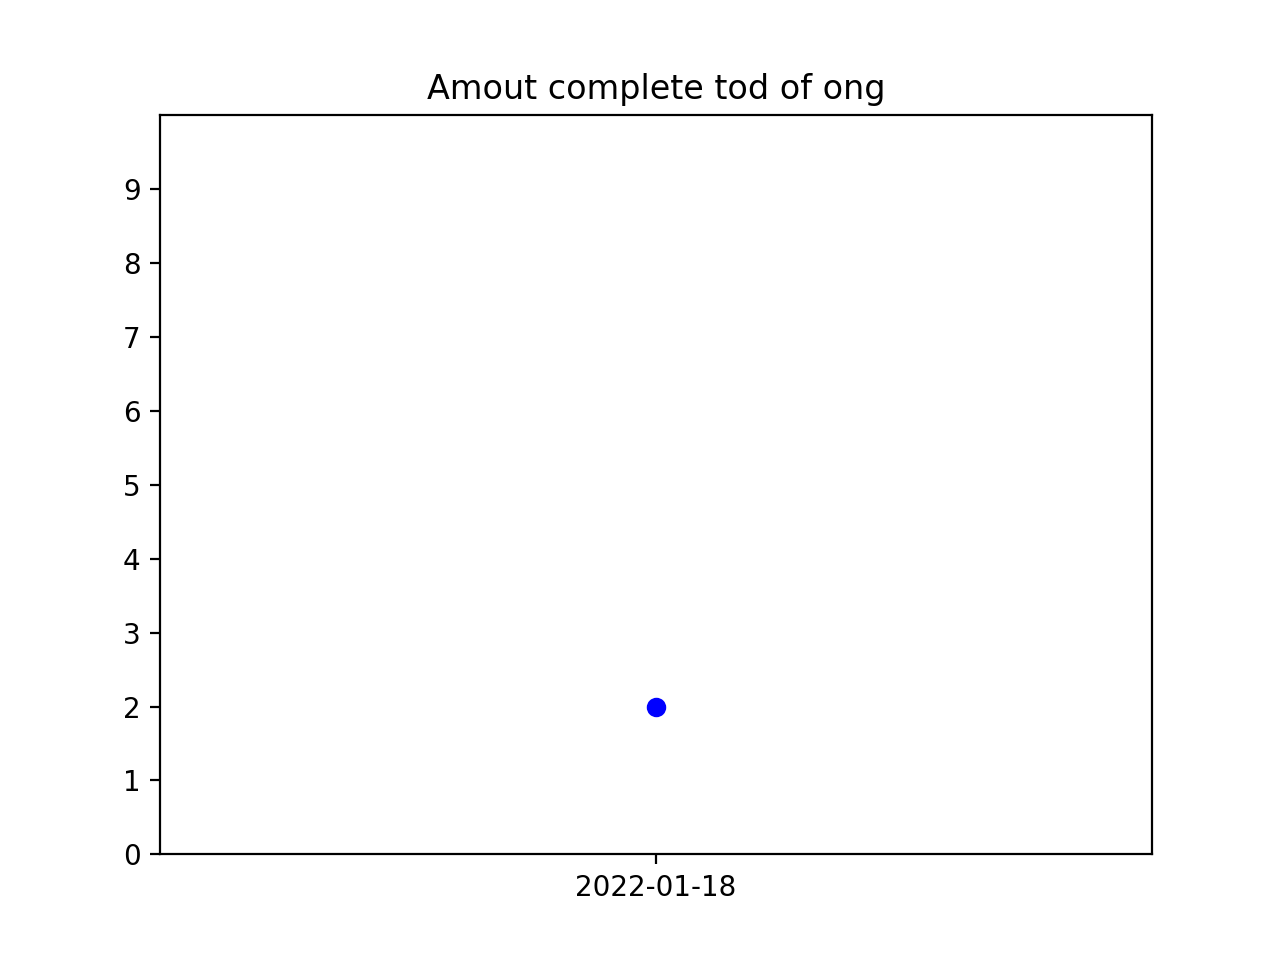
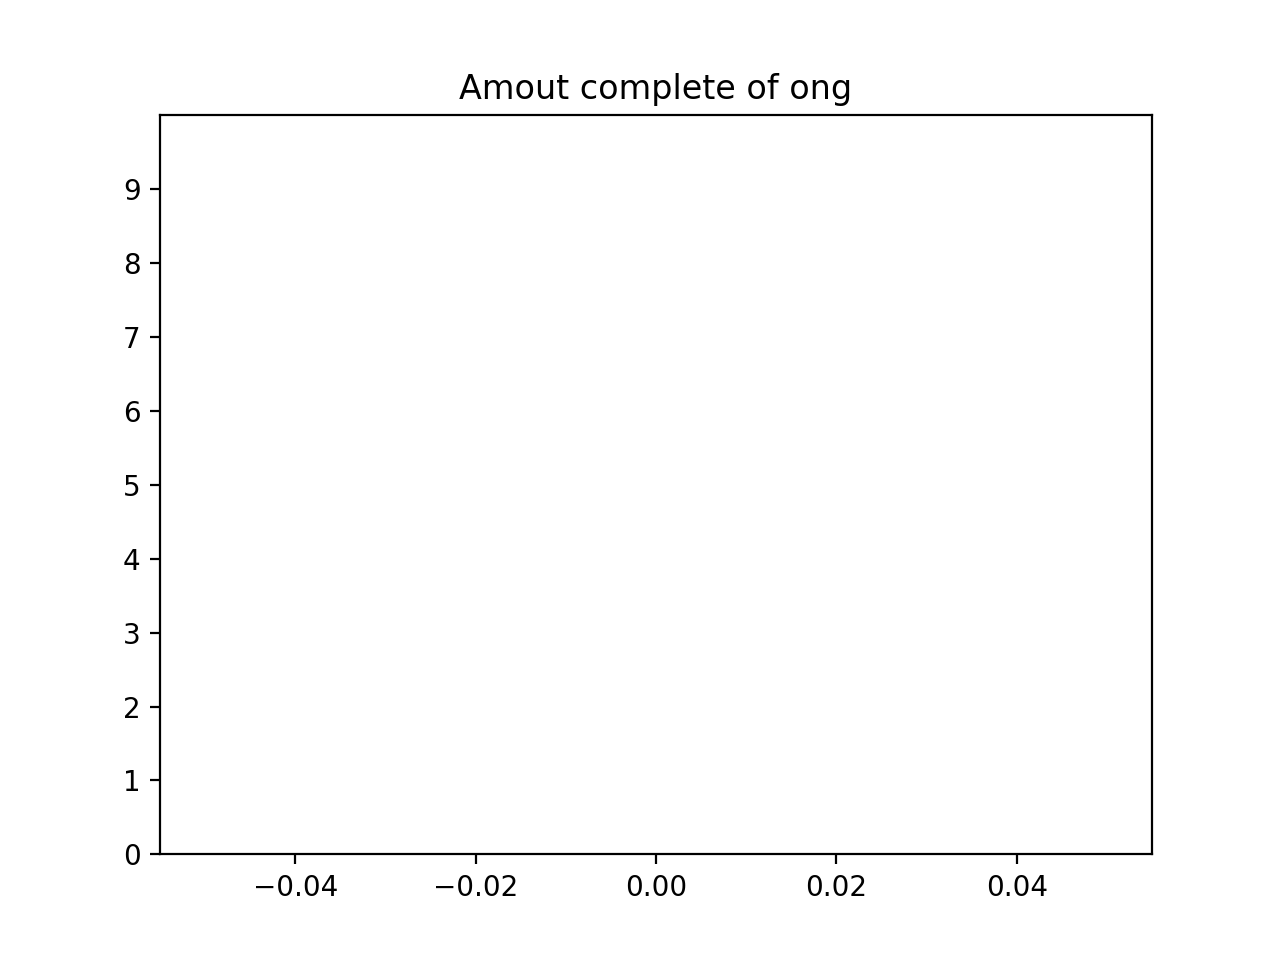
add graph

diff --git a/guiW2.py b/guiW2.py
@@ -101,6 +101,8 @@ class App:
                 self.note.checkUser(account_str.get())
                 fetch_data()
                 fetch_listbox()
+                self.note.graph()
+                changePageRight()
                 
         def refresh():
             clear_all_listbox()
@@ -144,6 +146,28 @@ class App:
             elif index == 1:    #complete_list page
                 # button check
                 btn_check.configure(text= 'Uncheck')
+        
+        def showGraph():
+            img = None            
+            # self.note.graph()
+            if self.graph_list.index(select_graph.get()) == 0:
+                img = self.note.get_pie()
+            elif self.graph_list.index(select_graph.get()) == 1:
+                img = self.note.get_completed()
+            if self.graph_list.index(select_graph.get()) == 2:
+                img = self.note.get_incompleted()
+
+            graph_image.configure(image=img)
+            graph_image.photo = img
+
+        
+        def changePageRight():
+            index = notebook_right.index(notebook_right.select())
+
+            if index == 0:
+                return
+            showGraph()
+                
 
         def click_check():
             try :   
@@ -191,6 +215,8 @@ class App:
                 refresh()
                 update_json()
                 fetch_listbox()
+                self.note.graph()
+                changePageRight()
                         # update status 
                 list_status.configure(text = str(main_listbox.size()) + " list ")
                 list_status.configure(text = str(complete_listbox.size()) + " list ")
@@ -396,6 +422,21 @@ class App:
 
         notebook_right.add(notebook_right_page1, text='Detail')
         notebook_right.add(notebook_right_page2, text='Graph')
+        notebook_right.bind('<<NotebookTabChanged>>', lambda e: changePageRight())
+
+        # add graph
+        self.graph_list = ["Amount of todo", "Completed", "Incompleted"]
+        # combobox graph
+        select_graph = StringVar()
+        graph_box =  ttk.Combobox(notebook_right_page2, width = 27, textvariable=select_graph)
+        graph_box['values'] = self.graph_list
+        graph_box.current(0)
+        graph_box.pack()
+
+        graph_box.bind('<<ComboboxSelected>>', lambda e: showGraph())
+        # graph image
+        graph_image = Label(notebook_right_page2)
+        graph_image.pack()
 
         #///////////////////////////
 
@@ -597,7 +638,9 @@ class App:
         detail_btn_add = Button(detail_frame3,text ="+", command= lambda e: click_check,state= DISABLED)
         detail_btn_add.grid(row=0, column=6, sticky='e')
         detail_btn_add.bind("<Button>",lambda e: add_task())
-
+        
+        fetch_data()
+        self.note.graph()
         fetch_listbox()
         #///////////////////////////
 
@@ -668,6 +711,7 @@ class addWindow(Toplevel):
                 self.note.toJson()
                 fetch_data()
                 fetch_listbox()
+                self.note.graph()
 
         fetch_data()
                 
@@ -798,6 +842,7 @@ class editWindow(Toplevel):
             self.note.toJson()
             fetch_data()
             fetch_listbox()
+            self.note.graph()
 
         fetch_data()
 

diff --git a/note.py b/note.py
@@ -3,6 +3,10 @@ from user import User
 import json
 from datetime import datetime
 from time import strftime
+from PIL import Image, ImageTk
+import matplotlib.pyplot as plt
+import numpy as np
+
 class NoteManager:
     def __init__(self):
         self.todoAll = []
@@ -11,6 +15,7 @@ class NoteManager:
         self.todoCompleted = []
         self.todoIncompleted = []
         self.filename = "data_file.json"
+        self.size = (500, 400)
 
     def createTodo(self, title, date, detail, time):      # create Todo
         todo = TodoList()
@@ -99,6 +104,73 @@ class NoteManager:
     def export_file(self, path):
         self.filename = path
         self.toJson()
+
+    def graph_pie(self):
+        name = self.user.getName()
+        c, i = len(self.getTodoCompleted()), len(self.getTodoIncompleted())
+        y = [c, i]
+        label = ['completed', 'incompleted']
+        plt.title('Amount todo of '+ name)
+        plt.pie(y, labels=label, autopct=lambda x:f"{x:.2f} %")
+        plt.savefig(f'pie_{name}.png', dpi=200)
+        plt.close()
+
+    def graph_complete(self):
+        name = self.user.getName()
+        l = self.getTodoCompleted()
+        result = {}
+        for i in l:
+            date = i['dateCompleted']
+            if date in result:
+                result[date] += 1
+            else:
+                result[date] = 1
+        k = list(result.keys())
+        k = sorted(k, key=lambda a: datetime.strptime(a, "%Y-%m-%d"))
+        v = [result[i] for i in k]
+        plt.title('Amout complete of '+ name)
+        plt.ylim(0, 10)
+        plt.yticks(np.arange(0, 10, 1))
+        plt.plot(k, v, 'bo', k, v, 'k--')
+        plt.savefig(f'plot_completed_{name}.png', dpi=200)
+        plt.close()
+
+    def graph_incomplete(self):
+        name = self.user.getName()
+        l = self.getTodoIncompleted()
+        result = {}
+        for i in l:
+            date = i['endDate']
+            if date in result:
+                result[date] += 1
+            else:
+                result[date] = 1
+        k = list(result.keys())
+        k = sorted(k, key=lambda a: datetime.strptime(a, "%Y-%m-%d"))
+        v = [result[i] for i in k]
+        plt.title('Amout incomplete of '+ name)
+        plt.ylim(0, 10)
+        plt.yticks(np.arange(0, 10, 1))
+        plt.plot(k, v, 'ro', k, v, 'k--')
+        plt.savefig(f'plot_incompleted_{name}.png', dpi=200)
+        plt.close()
+
+    def graph(self):
+        self.graph_pie()
+        self.graph_complete()
+        self.graph_incomplete()
+    
+    def get_pie(self):
+        name = self.user.getName()
+        return ImageTk.PhotoImage(Image.open(f"pie_{name}.png").resize(self.size))
+
+    def get_completed(self):
+        name = self.user.getName()
+        return ImageTk.PhotoImage(Image.open(f"plot_completed_{name}.png").resize(self.size))
+
+    def get_incompleted(self):
+        name = self.user.getName()
+        return ImageTk.PhotoImage(Image.open(f"plot_incompleted_{name}.png").resize(self.size))
 
 
             
